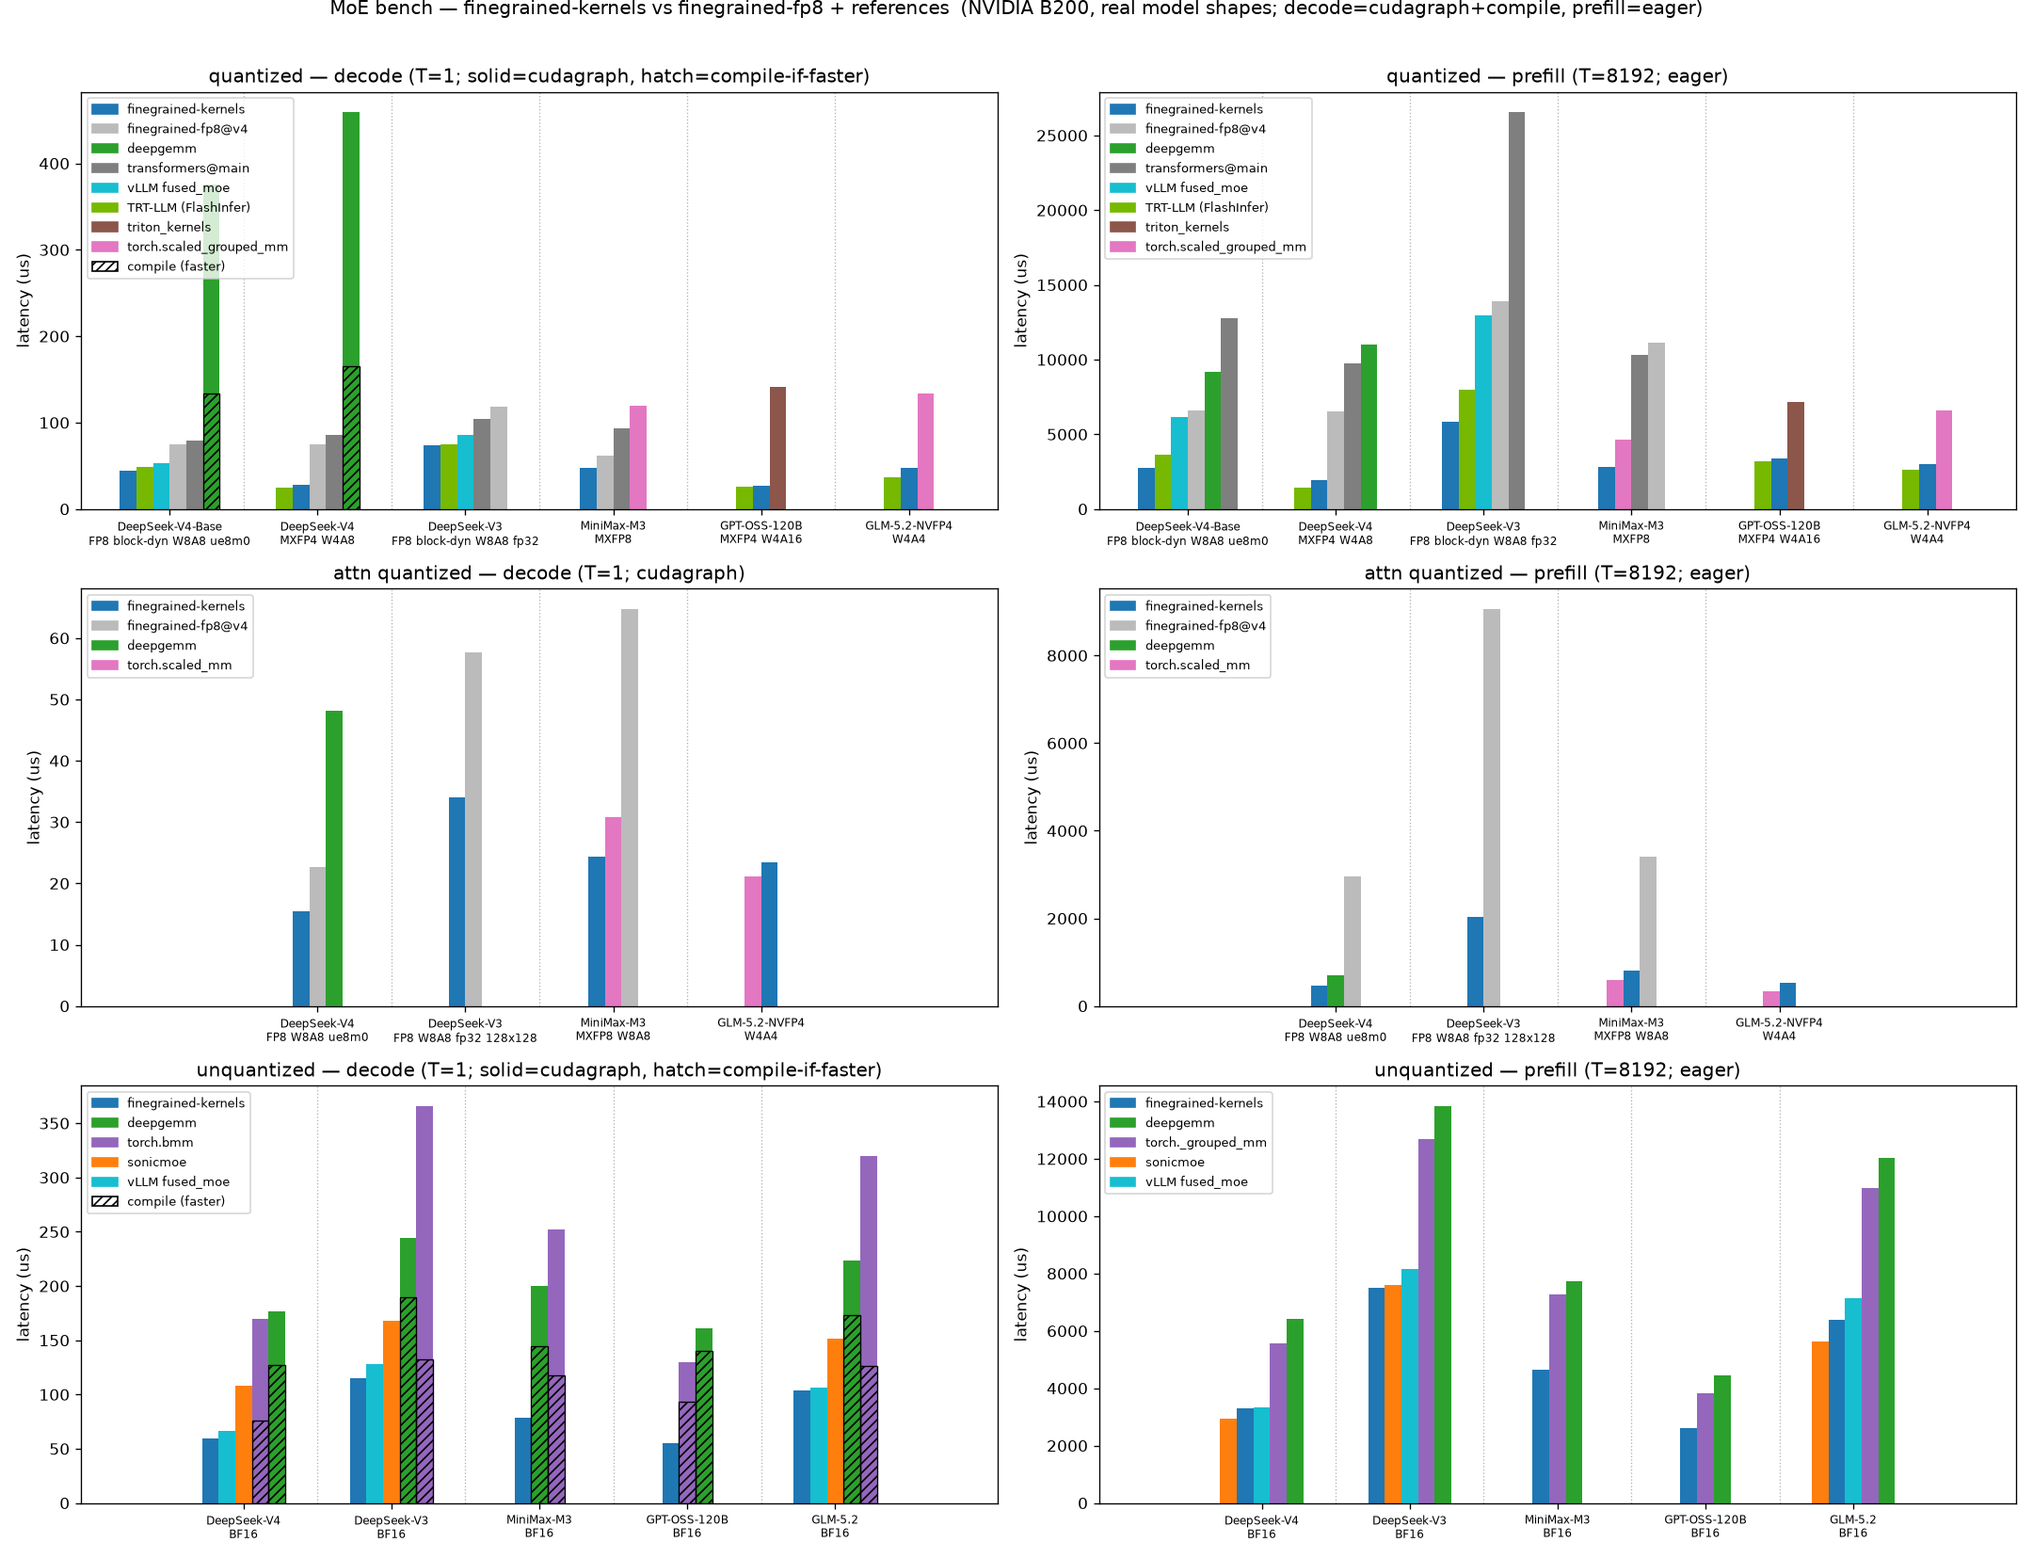
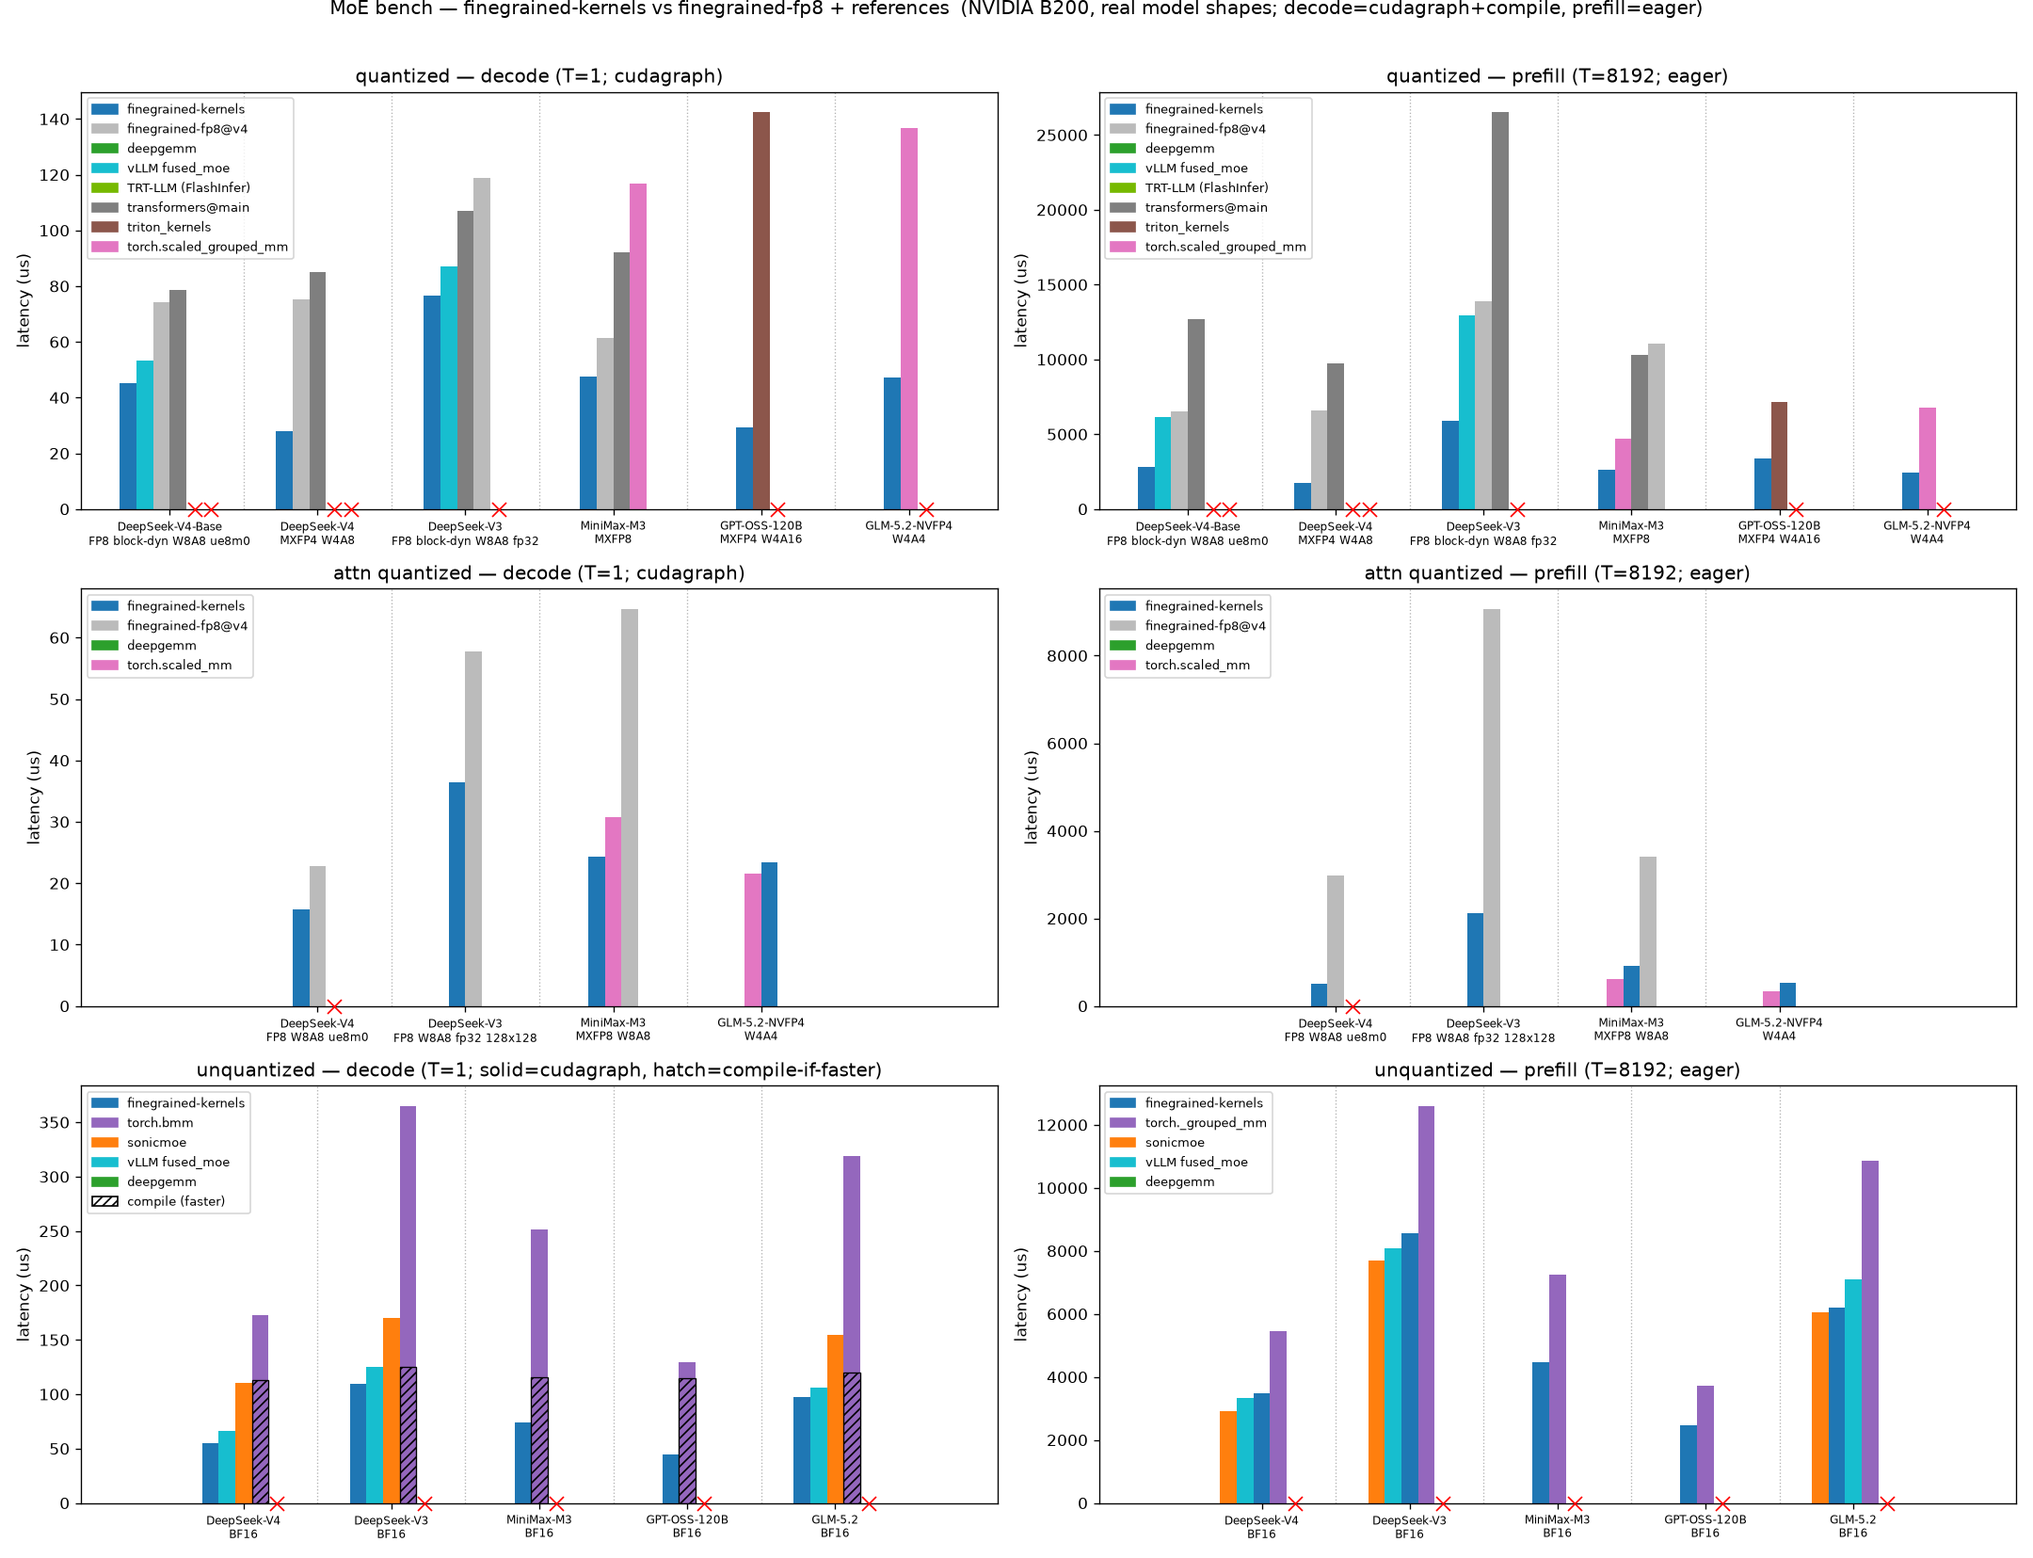
bench: add nvfp4-gemm and megablocks arms, fix our own missing bars
transformers grew an NVFP4 integration (upstream #47883) backed by
kernels-community/nvfp4-gemm, so it is a baseline now. It is linear-only — MoE
experts are fused 3-D parameters, not nn.Linear — so it is benched two ways: as a
2D GEMM against matmul_2d (apples to apples, packing offline, only `gemm` timed),
and looped per expert, which is what an MoE would cost through NVFP4Linear.

megablocks comes from the hub, NOT a local install: it pins an older torch, and
installing it from source downgrades the environment out from under every other
arm (torch 2.13 -> 2.7, triton 3.7.1 -> 3.3). It needs mlp_impl="grouped" (sparse
is refused on triton >= 3.2), mlp_type="glu" (the default MLP is UNGATED and sizes
w1 as [E*I, H]), return_bias=False, activation_fn=silu (its default is tanh-GELU,
which reads as a plausible 3.7e-2 parity rather than an error), and a TRANSPOSED
down projection — element counts match either way, so a bare reshape silently
scrambles it. bf16 only, so it sits on the plain-SwiGLU unquantized rows.

Also fixes _preswizzle_moe_scale, whose `gate` argument outlived the interleaved
layout that removed the 6-D gate artifact. It stayed a REQUIRED positional that two
of four call sites did not pass, taking the finegrained-kernels arm out of every
preswizzle row with a setup TypeError — so the figure was published without our own
bars there.

Measured (B200, 8 GPUs, cudagraph unless noted):
- NVFP4 attn 2D: nvfp4_gemm 19.5us decode (beats torch 22.0 and us 22.3);
[…]

diff --git a/finegrained-kernels/bench/bench_moe.py b/finegrained-kernels/bench/bench_moe.py
@@ -152,12 +152,16 @@ def _nvfp4_kwargs(cfg, hidden, gu, gus, gu_g):
     return dict(gate_up_input_global_scale=act_g, down_input_global_scale=inter_g)
 
 
-def _preswizzle_moe_scale(scale, gate):
+def _preswizzle_moe_scale(scale):
     """Per-expert SWIZZLE_32_4_4 of a grouped MX weight scale ``(E, rows, K//G)`` -> the swizzled
-    artifact the tcgen05 fast path reads (5-D; 6-D gate-interleaved under ``gate=True``; the
-    library helper owns the expert-stack, interleave, and byte-view contracts). Done once at arm
-    setup (not timed)."""
-    return fgm.swizzle_mx_scales(scale, gate=gate)
+    artifact the tcgen05 fast path reads (the library helper owns the expert-stack and byte-view
+    contracts). Done once at arm setup (not timed).
+
+    No ``gate`` argument: the interleaved gate|up layout made a gated scale slab just the ungated
+    one at doubled extent, so the 6-D gate-interleaved artifact is gone. The parameter outlived it
+    as a REQUIRED arg that two of four call sites did not pass, which took the finegrained-kernels
+    arm out of every preswizzle row with a setup TypeError."""
+    return fgm.swizzle_mx_scales(scale)
 
 
 from utils import WEIGHTS, dq_nvfp4_two_level, make_weights  # noqa: E402  tests/utils.py registry
@@ -190,6 +194,24 @@ try:
     from vllm.model_executor.layers.quantization.utils.fp8_utils import per_token_group_quant_fp8 as _vllm_group_quant  # noqa: E402
 except ImportError:
     vllm_fused_experts = None
+# kernels-community/nvfp4-gemm — the dense NVFP4 GEMM behind transformers' `NVFP4Linear`
+# (upstream #47883). Linear-only: it never sees an MoE, because experts are fused 3-D
+# parameters rather than nn.Linear. Benched here two ways — as a 2D GEMM against our
+# matmul_2d (apples to apples), and looped per expert over the routed rows, which is what
+# an MoE would cost if it were served by that integration.
+try:
+    from transformers.integrations.hub_kernels import lazy_load_kernel as _hub_kernel  # noqa: E402
+    _nvfp4_gemm = _hub_kernel("nvfp4")
+except Exception:
+    _nvfp4_gemm = None
+# megablocks dropless-MoE (dMoE) — the hub build, NOT a local pip install: megablocks pins an
+# older torch, so installing it from source downgrades the environment out from under every other
+# arm. Loaded like the rest of the roster.
+try:
+    _megablocks = get_kernel("kernels-community/megablocks", version=1)
+except Exception:
+    _megablocks = None
+
 # FlashInfer TRT-LLM fused MoE (NVIDIA's Blackwell serving kernels) — installed --no-deps
 # (its PyPI pin would downgrade torch; the JIT has no torch ABI coupling). JIT needs
 # CUDA_HOME >= 12.8 at first compile; the built module is cached under ~/.cache/flashinfer.
@@ -365,6 +387,8 @@ IMPL_COLORS = {
     "vllm": "#17becf",  # vLLM triton fused-MoE (its bf16 serving kernel)
     "trtllm": "#76b900",  # FlashInfer TRT-LLM fused MoE (NVIDIA Blackwell serving kernels)
     "triton_kernels": "#8c564b",  # OpenAI mxfp4 (GPT-OSS) reference
+    "nvfp4_gemm": "#d62728",  # transformers NVFP4Linear kernel, looped per expert
+    "megablocks": "#7f7f7f",  # databricks dropless-MoE (bf16 reference)
     "torch": "#e377c2",  # torch/cuBLAS F.scaled_grouped_mm (quantized prefill reference)
     "torch_mm": "#e377c2",  # torch/cuBLAS F.scaled_mm (the attn-row sibling)
 }
@@ -471,8 +495,8 @@ def moe_fused_arm(cfg, grouped, hidden, idx, w, gu, gus, dn, dns, gu_g, dn_g, *_
     fn = fgm.moe_fused_grouped if grouped else fgm.moe_fused_batched
     nvfp4_kw = _nvfp4_kwargs(cfg, hidden, gu, gus, gu_g)  # raw scales: before any preswizzle
     if _can_preswizzle(cfg):
-        gus = _preswizzle_moe_scale(gus, gate=True)   # fused gate GEMM reads the interleaved layout
-        dns = _preswizzle_moe_scale(dns, gate=False)
+        gus = _preswizzle_moe_scale(gus)   # fused gate GEMM reads the interleaved layout
+        dns = _preswizzle_moe_scale(dns)
     kw = dict(act_fn=cfg["act"], swiglu_alpha=cfg["swiglu_alpha"],
               swiglu_limit=cfg["swiglu_limit"], recipe=_recipe(cfg),
               gate_up_proj_global_scale=gu_g, down_proj_global_scale=dn_g,
@@ -486,8 +510,8 @@ def moe_unfused_arm(cfg, grouped, hidden, idx, w, gu, gus, dn, dns, gu_g, dn_g, 
     if _can_preswizzle(cfg):
         # ONE checkpoint layout: gate_up scales are always the gate-interleaved artifact; the
         # unfused plain 2N GEMM reads it via the in-kernel INTERLEAVED_SCALES block remap.
-        gus = _preswizzle_moe_scale(gus, gate=True)
-        dns = _preswizzle_moe_scale(dns, gate=False)
+        gus = _preswizzle_moe_scale(gus)
+        dns = _preswizzle_moe_scale(dns)
     kw = dict(act_fn=cfg["act"], swiglu_alpha=cfg["swiglu_alpha"],
               swiglu_limit=cfg["swiglu_limit"], recipe=_recipe(cfg),
               gate_up_proj_global_scale=gu_g, down_proj_global_scale=dn_g,
@@ -870,6 +894,97 @@ def triton_kernels_arm(cfg, grouped, hidden, idx, w, gu, gus, dn, dns, gu_g, dn_
     return lambda: experts(hidden, rd, gi, si)
 
 
+def nvfp4_gemm_arm(cfg, grouped, hidden, idx, w, gu, gus, dn, dns, gu_g=None, dn_g=None, *_):
+    """transformers' NVFP4 path applied to an MoE: pack each expert's gate|up and down once
+    (offline, as the checkpoint conversion does), then per-expert ``gemm`` over that expert's
+    routed rows. This is NOT a fused MoE — the integration has no MoE kernel — so it measures
+    what routing through `NVFP4Linear` would cost: one dense GEMM launch per expert per
+    projection, plus the gather/scatter, with no fusion of the GLU or the intermediate requant."""
+    E, I2, H = gu.shape
+    I = I2 // 2
+    dev = hidden.device
+    # offline: the conversion op's own packer, one PackedWeight per expert per projection.
+    # Feed it the DEQUANTIZED weight — gu/dn arrive packed E2M1, and reinterpreting those bytes
+    # as bf16 would hand the packer a half-width matrix.
+    one = torch.ones(E, device=gu.device)
+    gu_bf16 = WEIGHTS["nvfp4"]["dequant"](gu, gus, gu_g if gu_g is not None else one)
+    dn_bf16 = WEIGHTS["nvfp4"]["dequant"](dn, dns, dn_g if dn_g is not None else one)
+    gu_packed = [_nvfp4_gemm.pack(gu_bf16[e].to(torch.bfloat16), device=dev) for e in range(E)]
+    dn_packed = [_nvfp4_gemm.pack(dn_bf16[e].to(torch.bfloat16), device=dev) for e in range(E)]
+
+    def run():
+        out = torch.zeros_like(hidden)
+        for e in range(E):
+            sel = (idx == e).nonzero(as_tuple=True)
+            if sel[0].numel() == 0:
+                continue
+            rows = hidden[sel[0]]
+            z = _nvfp4_gemm.gemm(gu_packed[e], rows)
+            g, u = z[..., 0::2], z[..., 1::2]
+            h = torch.nn.functional.silu(g) * u
+            y = _nvfp4_gemm.gemm(dn_packed[e], h)
+            out.index_add_(0, sel[0], (y * w[sel].unsqueeze(-1)).to(out.dtype))
+        return out
+
+    return run
+
+
+def megablocks_arm(cfg, grouped, hidden, idx, w, gu, gus, dn, dns, *_):
+    """megablocks dropless-MoE: block-sparse grouped GEMM over the routed rows, its own
+    permute/histogram/gather ops inside the timed call. Driven through
+    ``ParallelDroplessMLP.forward(x, scores, expert_weights, top_experts)`` so the bench's OWN
+    routing is used, matching every other arm — ``dMoE`` would run its internal router instead
+    and measure a different problem.
+
+    bf16 only: megablocks has no quantized path, so this is the unquantized MoE reference —
+    compare it against ``deepgemm_bf16`` and the bf16 row, not against the quantized arms."""
+    E, I2, H = gu.shape
+    I = I2 // 2
+    args = _megablocks.Arguments(
+        hidden_size=H, ffn_hidden_size=I, moe_num_experts=E, moe_top_k=cfg["top_k"],
+        bf16=True, fp16=False, device=hidden.device, moe_capacity_factor=0,
+        # sparse (stk block-sparse) is refused on triton >= 3.2; "grouped" is the grouped-GEMM
+        # backend, which is the path megablocks actually recommends on current stacks anyway
+        # sparse (stk block-sparse) is refused on triton >= 3.2; "grouped" is the grouped-GEMM
+        # backend megablocks recommends on current stacks. mlp_type="glu" is required for SwiGLU
+        # models — the default MLP is UNGATED and sizes w1 as [E*I, H], so a gate|up stack cannot
+        # load into it.
+        mlp_impl="grouped", mlp_type="glu",
+        # forward returns (out, bias) unless this is off, and a tuple breaks the parity check
+        return_bias=False,
+        # megablocks defaults to tanh-approx GELU; the roster's models are SiLU, and the mismatch
+        # reads as a plausible-looking 3.7e-2 parity rather than as an error
+        activation_fn=torch.nn.functional.silu,
+    )
+    mlp = _megablocks.ParallelDroplessMLP(args).to(hidden.device, torch.bfloat16)
+    # the bench's gate|up is INTERLEAVED (gate at even rows, up at odd); megablocks wants the
+    # [gate; up] halves, so de-interleave once, offline
+    with torch.no_grad():
+        # the bench's gate|up is INTERLEAVED (gate even rows, up odd); the GLU MLP holds them as
+        # separate w1 (gate) and v1 (up) tensors, so de-interleave rather than stack
+        gate, up = gu[..., 0::2, :], gu[..., 1::2, :]
+        # every megablocks GLU buffer is [E*I, H]. gate/up already are (E, I, H), but the bench's
+        # down is (E, H, I) — it must be TRANSPOSED, not reshaped: the element count matches either
+        # way, so a bare reshape silently scrambles it (parity 1.4e+00, not a crash).
+        for name, src in (("w1", gate), ("v1", up), ("w2", dn.transpose(1, 2))):
+            buf = getattr(mlp.mlp, name, None)
+            if buf is None:
+                raise RuntimeError(f"megablocks GLU MLP has no {name}; API changed")
+            if buf.numel() != src.numel():
+                raise RuntimeError(
+                    f"megablocks {name} wants {tuple(buf.shape)} ({buf.numel()} elems), "
+                    f"source has {tuple(src.shape)} ({src.numel()})")
+            buf.copy_(src.contiguous().reshape(buf.shape).to(torch.bfloat16))
+    scores = torch.zeros(hidden.shape[0], E, device=hidden.device, dtype=torch.bfloat16)
+    scores.scatter_(1, idx.long(), w.to(torch.bfloat16))
+    # belt and braces: some builds still hand back (out, bias)
+    def run():
+        out = mlp(hidden, scores, w.to(torch.bfloat16), idx.long())
+        return out[0] if isinstance(out, tuple) else out
+
+    return run
+
+
 ARMS = {
     "finegrained-kernels": moe_fused_arm,
     "finegrained-kernels_unfused": moe_unfused_arm,
@@ -884,6 +999,8 @@ ARMS = {
     "deepgemm_bf16": deepgemm_bf16_arm,
     "triton_kernels": triton_kernels_arm,
     "torch": torch_arm,
+    "nvfp4_gemm": nvfp4_gemm_arm,
+    "megablocks": megablocks_arm,
 }
 
 
@@ -1102,6 +1219,20 @@ def bench_attn_row(row, pname, cfg, rows_out):
         if "triton_kernels" in cfg["baselines"]:
             attn_arms["triton_kernels"] = lambda: tk_ogs(
                 x, tw, None, None, precision_config=tk_pc)
+        # The dense GEMM is where transformers' NVFP4 path actually lives, so this is the
+        # apples-to-apples cell: same weight, its packer, its kernel. Packing is offline (the
+        # checkpoint conversion does it), so only `gemm` is timed.
+        if _nvfp4_gemm is not None and cfg["weights"] == "nvfp4":
+            # their packer takes a bf16 weight and produces its OWN layout, so feed it the
+            # dequantized tensor — `W` is already packed E2M1 (uint8, two values per byte), and
+            # casting those bytes to bf16 hands it a K/2-wide matrix ("expected 3072 input
+            # features, got 6144"). Same underlying weight, each stack quantizing it its own way,
+            # which is how every other baseline here is treated.
+            _w_bf16 = WEIGHTS["nvfp4"]["dequant"](
+                W[None], Ws[None], (W_g if W_g is not None else torch.ones(1, device=W.device))
+            )[0].to(torch.bfloat16)
+            _pw = _nvfp4_gemm.pack(_w_bf16, device=x.device)
+            attn_arms["nvfp4_gemm"] = lambda: _nvfp4_gemm.gemm(_pw, x)
         anchor_res, anchor_out = None, None
         for name, run in attn_arms.items():
             res, out = bench_modes(run, name)
@@ -1217,8 +1348,12 @@ def _run_task(kind, pname, cfg, rows_out):
         # activations (W4A16) — it always quantizes — and feeding it those faults the CUDA context.
         tfm_arm_t = (("transformers@main",)
                      if "finegrained-fp8" in cfg["baselines"] and _recipe(cfg) is not None else ())
+        # transformers' NVFP4Linear kernel: an NVFP4 weight is the only checkpoint it can read,
+        # and it has no MoE kernel — the arm loops it per expert (see nvfp4_gemm_arm)
+        nvfp4_arm_t = (("nvfp4_gemm",)
+                       if _nvfp4_gemm is not None and cfg["weights"] == "nvfp4" else ())
         quant_arms = (("finegrained-kernels",) + cfg["baselines"] + cfg.get("fused_extra", ())
-                      + tfm_arm_t + torch_arm_t)
+                      + tfm_arm_t + torch_arm_t + nvfp4_arm_t)
         # soft-imported arms drop out where their package is absent; the TRT-LLM fp8-block
         # kernel additionally drops on clamped/scaled SwiGLU rows — passing its gemm1_alpha/
         # beta/clamp_limit there still answers a different function (measured rel 4.4e-1 vs
@@ -1239,6 +1374,9 @@ def _run_task(kind, pname, cfg, rows_out):
         arms = tuple(a for a in cfg["baselines"]
                      if (a not in ("sonicmoe", "vllm") or plain_glu)
                      and (a != "vllm" or vllm_fused_experts is not None))
+        # megablocks is bf16-only (no quantized path), so it belongs on this row and nowhere else
+        if _megablocks is not None and plain_glu:
+            arms = arms + ("megablocks",)
         bench_problem_row("unquantized", pname, cfg, ("finegrained-kernels",) + arms,
                           weights, rows_out)
     else:  # attn
